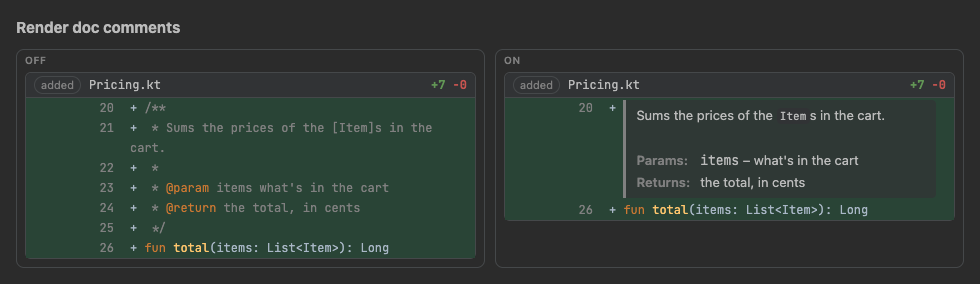
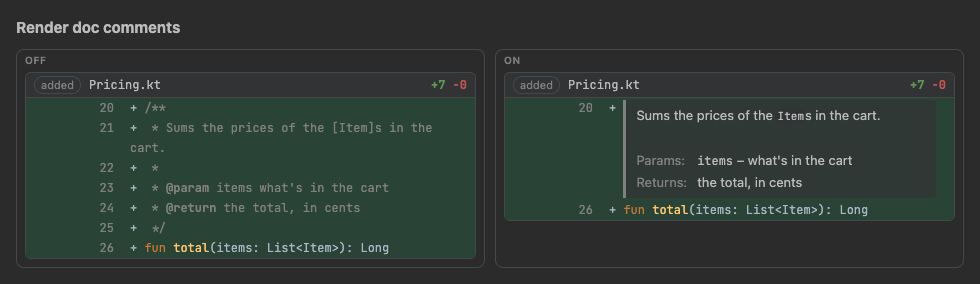
Quieter doc tags: @param in the comment's colour; plain tag table
Doc tags in source no longer take the keyword colour (comment colour,
slightly bolder, like IntelliJ); the rendered tag table drops the bold
labels and code chips. Pictures recaptured.

diff --git a/app/src/review.tsx b/app/src/review.tsx
@@ -931,6 +931,8 @@ function DiffView({ file, hunks, ctx, threads, drafts }: BodyProps) {
   const docs = useMemo(() => (renderDocs && docSyntax(path) ? docBlocks(hunks) : []), [hunks, renderDocs]);
   const [openDocs, setOpenDocs] = useState<Set<string>>(new Set());
   const docAt = (hi: number, li: number) => covering(docs, openDocs, hi, li);
+  // A doc comment switched to its source: a header row above its first line switches it back.
+  const docOpenedAt = (hi: number, li: number) => docs.find((d) => d.hunk === hi && d.start === li && openDocs.has(`${hi}-${li}`));
 
   return (
     <table class="diff" ref={table}>
@@ -983,8 +985,22 @@ function DiffView({ file, hunks, ctx, threads, drafts }: BodyProps) {
               const side: Side = l.kind === '-' ? 'LEFT' : 'RIGHT';
               const num = side === 'LEFT' ? l.old! : l.new!;
               const move = l.kind === '-' ? mv?.old.get(l.old!) : l.kind === '+' ? mv?.new.get(l.new!) : undefined;
+              const opened = docOpenedAt(hi, li);
               return (
                 <>
+                  {opened && (
+                    <tr class="doc-h">
+                      <td colSpan={3}>
+                        <button
+                          class="link"
+                          title="Show this doc comment rendered"
+                          onClick={() => setOpenDocs((s) => { const x = new Set(s); x.delete(`${hi}-${li}`); return x; })}
+                        >
+                          ⤒ Render doc comment
+                        </button>
+                      </td>
+                    </tr>
+                  )}
                   {move && (
                     <tr class="moved-h">
                       <td colSpan={3}>
@@ -1063,7 +1079,7 @@ function DocView({ doc, syntax, onSource }: { doc: DocBlock; syntax: 'kdoc' | 'j
   const { body, tags } = useMemo(() => parseDoc(doc.text, syntax), [doc.text]);
   return (
     <div class="doc-render" style={{ marginLeft: `${doc.indent}ch`, width: `calc(100% - ${doc.indent + 3}ch)` }}>
-      <button class="link doc-source" title="Show the comment's source lines" onClick={onSource}>source</button>
+      <button class="link doc-source" title="Show the comment's source lines" onClick={onSource}>&lt;/&gt; source</button>
       {body && <div class="md" dangerouslySetInnerHTML={{ __html: md.render(body) }} />}
       {tags.length > 0 && (
         <dl class="doc-tags">

diff --git a/app/src/style.css b/app/src/style.css
@@ -251,7 +251,7 @@ main { padding: 16px; }
 time { color: var(--muted); font-size: 12px; }
 
 /* highlight.js tokens (GitHub palette) */
-.hljs-keyword, .hljs-doctag, .hljs-template-tag, .hljs-template-variable, .hljs-type, .hljs-variable.language_ { color: var(--hl-kw); }
+.hljs-keyword, .hljs-template-tag, .hljs-template-variable, .hljs-type, .hljs-variable.language_ { color: var(--hl-kw); }
 .hljs-title, .hljs-title.class_, .hljs-title.function_ { color: var(--hl-fn); }
 .hljs-attr, .hljs-attribute, .hljs-literal, .hljs-meta, .hljs-number, .hljs-operator, .hljs-variable, .hljs-selector-attr, .hljs-selector-class, .hljs-selector-id { color: var(--hl-const); }
 .hljs-regexp, .hljs-string, .hljs-meta .hljs-string { color: var(--hl-str); }
@@ -409,7 +409,13 @@ mark.wd-add { background: light-dark(#a6f0b5, #3a6b45); color: inherit; }
 .doc-render .md > :last-child { margin-bottom: 0; }
 .doc-render .md p { margin: 0 0 6px; }
 .doc-tags { display: grid; grid-template-columns: max-content 1fr; gap: 2px 10px; margin: 6px 0 0; }
-.doc-tags dt { color: var(--muted); font-weight: 600; }
+.doc-tags dt { color: var(--muted); }
+.doc-render code { padding: .05em .3em; background: var(--soft); border-radius: 4px; font-size: 85%; }
 .doc-tags dd { margin: 0; }
-.doc-source { position: absolute; top: 4px; right: 6px; opacity: 0; }
+.doc-source { position: absolute; top: 4px; right: 6px; font-size: 11px; opacity: .55; }
 .doc-render:hover .doc-source { opacity: 1; }
+.diff tr.doc-h td { padding: 1px 8px; font: 11px var(--sans); background: var(--soft); }
+/* Doc tags (@param, @return…) inside a comment: the comment's colour, slightly bolder, like IntelliJ, not keyword-coloured */
+.hljs-doctag { color: inherit; font-weight: 600; }
+.doc-tags code { padding: 0; background: none; font-size: .92em; color: var(--fg); }
+.doc-render .md code { padding: 0 1px; }
